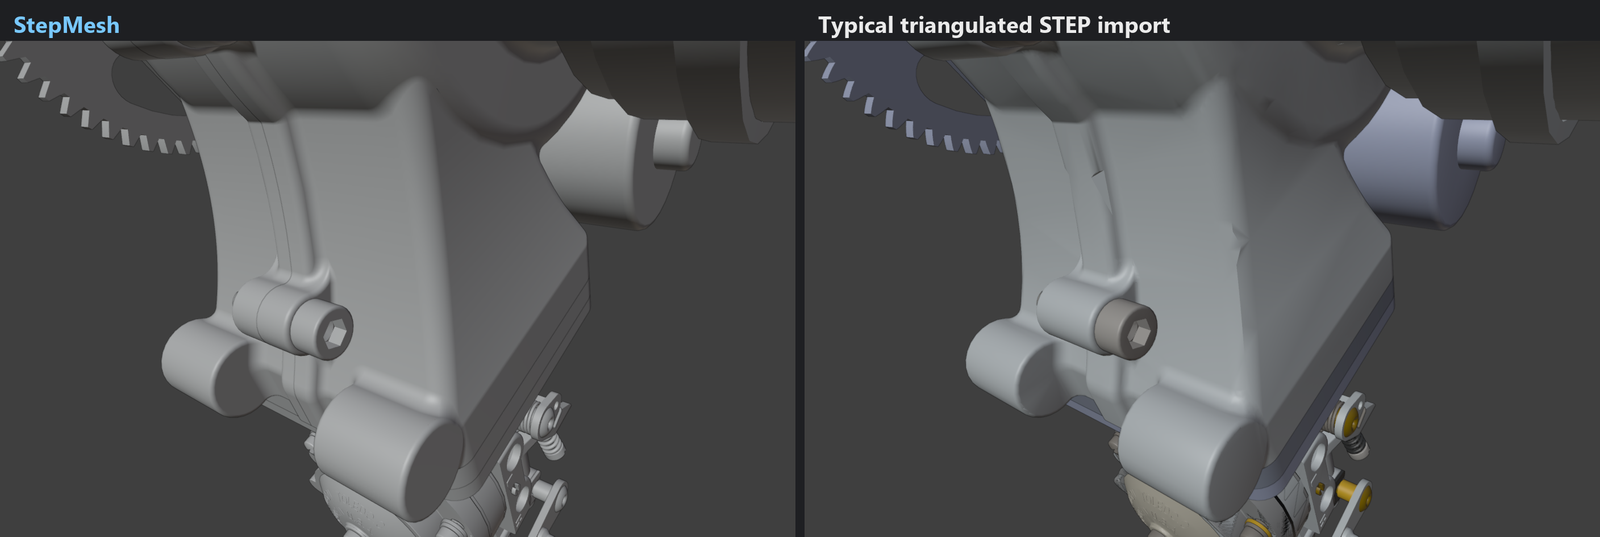
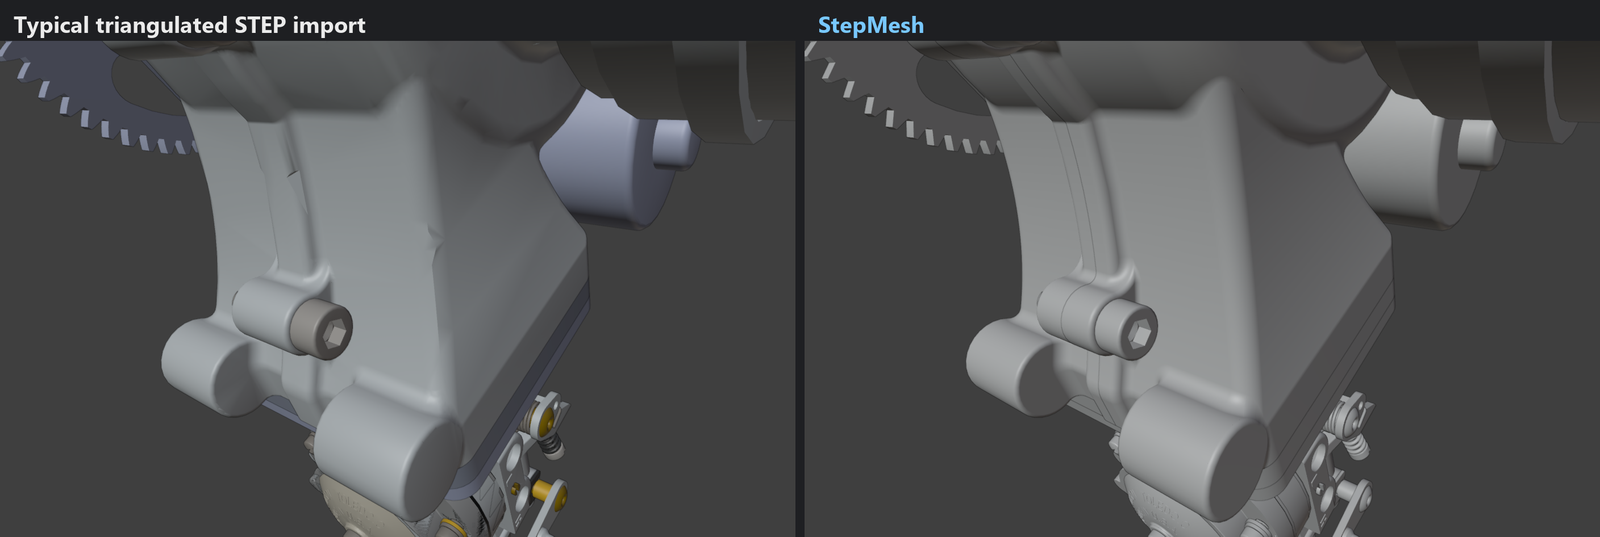
README: show StepMesh on the right in comparison images

diff --git a/README.md b/README.md
@@ -12,7 +12,7 @@ Free, open source STEP to polygon mesh converter that produces clean, quad-domin
 
 ## Compared with a typical STEP import
 
-Same model, same camera, Blender solid shading. Left: StepMesh. Right: a typical triangulated STEP import.
+Same model, same camera, Blender solid shading. Left: a typical triangulated STEP import. Right: StepMesh.
 
 Flat faces stay flat and lettering stays crisp, because the mesh follows the surfaces' own grid and carries the exact CAD normals instead of smoothing across long sliver triangles:
 
